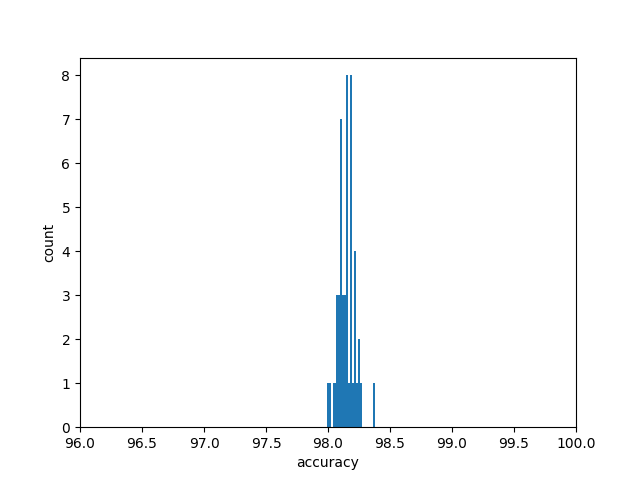
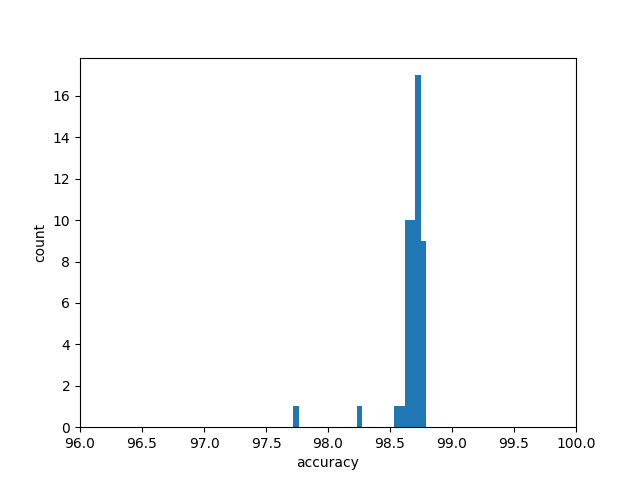
regularization added

diff --git a/LogReg.py b/LogReg.py
@@ -41,7 +41,7 @@ class LogisticRegression(torch.nn.Module):
         return outputs
 
 
-def sample_scores(model, criterion, data_input, data_target, test_loader, weights_mle, N_samples=10, arbitrary=False, k=2):
+def sample_scores(model, criterion, data_input, data_target, test_loader, weights_mle, N_samples=10, arbitrary=False, k=3):
     acc = []
     los = []
     for i in trange(N_samples):
@@ -50,10 +50,12 @@ def sample_scores(model, criterion, data_input, data_target, test_loader, weight
 
         loss = criterion(model(data_input), data_target)
         los.append(loss.item())
+        logits = []
         total = 0
         correct = 0
         for images, labels in test_loader:
             outputs = model(images)
+            logits.append(outputs)
             _, predicted = torch.max(outputs.data, 1)
             total += labels.size(0)
             # for gpu, bring the predicted and labels back to cpu fro python operations to work
@@ -61,7 +63,8 @@ def sample_scores(model, criterion, data_input, data_target, test_loader, weight
         accuracy = 100. * correct / float(total)
         acc.append(accuracy)
         set_model_parameters(model, weights_mle)
-    return acc, los
+        print(logits)
+    return acc, los, logits
 
 
 if __name__ == '__main__':
@@ -128,16 +131,31 @@ if __name__ == '__main__':
     data_input = test_batch[0]
     data_target = test_batch[1]
 
-    scores = sample_scores(model, criterion, data_input, data_target, test_loader, weights_mle, N_samples=100)
+    acc, loss, logits = sample_scores(model, criterion, data_input, data_target, test_loader, weights_mle, N_samples=100)
+    # print(f'Accuracy mean = {np.mean(scores[0])}')
+    # print(f'Accuracy std = {np.std(scores[0])}')
 
-    plt.hist(scores[0], bins=20)
+
+    plt.hist(acc, bins=60, density=True)
     plt.xlabel('accuracy')
     plt.ylabel('count')
-    plt.savefig('experiments/acc_logreg_bin.png')
+    # plt.xlim(left=90, right=95)
+    plt.savefig('experiments/acc_logreg_reg.png')
     plt.close()
+    #
+    # print(f'Loss mean = {np.mean(scores[1])}')
+    # print(f'Loss std = {np.std(scores[1])}')
 
-    plt.hist(scores[1], bins=25)
+
+    plt.hist(loss, bins=25)
     plt.xlabel('loss')
     plt.ylabel('count')
-    plt.savefig('experiments/loss_logreg_bin.png')
+    plt.savefig('experiments/loss_logreg_reg.png')
+    plt.close()
+
+    plt.hist(logits[:, 0], density=True)
+    plt.xlabel('logits')
+    plt.ylabel('count')
+    # plt.xlim(left=90, right=95)
+    plt.savefig('experiments/logits_logreg_reg.png')
     plt.close()

diff --git a/NN.py b/NN.py
@@ -1,0 +1,69 @@
+# /usr/local/bin/python3.7
+
+import matplotlib.pyplot as plt
+import numpy as np
+import torch
+import torch.nn as nn
+from torch.utils import data
+from tqdm import trange, tqdm
+from hvp_operator import to_vector
+from sampling import generate_weights, set_model_parameters
+from torchvision.datasets import MNIST
+import torchvision.transforms as transforms
+
+if __name__ == '__main__':
+
+    epochs = 5
+    batch_size = 64
+    lr = 5e-4
+
+    train_dataset = MNIST(root='MNIST', train=True, transform=transforms.ToTensor(), download=True)
+    train_loader = torch.utils.data.DataLoader(dataset=train_dataset, batch_size=batch_size, shuffle=True)
+
+    test_dataset = MNIST(root='MNIST', train=False, transform=transforms.ToTensor(), download=True)
+    test_loader = torch.utils.data.DataLoader(dataset=test_dataset, batch_size=batch_size, shuffle=False)
+
+    model = nn.Sequential(
+        nn.Linear(784, 256),
+        nn.ReLU(),
+        nn.Linear(256, 10)
+    )
+
+    criterion = nn.CrossEntropyLoss()
+    optimizer = torch.optim.Adam(model.parameters(), lr=lr)
+
+    train_losses = []
+    test_losses = []
+
+    for epoch in trange(epochs):
+        # Training
+        train_losses.append([])
+        model.train()
+        for iter_num, (images, labels) in enumerate(tqdm(train_loader)):
+            optimizer.zero_grad()
+            outputs = model(images)
+            loss = criterion(outputs, labels)
+            loss.backward()
+            optimizer.step()
+
+            train_losses[epoch].append(loss.item())
+
+        print(f'\nTrain loss at epoch #{epoch} = {np.mean(train_losses[epoch]):.4f}\n')
+
+        # Evaluation
+        test_losses.append([])
+        correct = 0
+        total = 0
+        model.eval()
+        for iter_num_test, (images_test, labels_test) in enumerate(tqdm(test_loader)):
+            with torch.no_grad():
+                outputs_test = model(images_test)
+                loss_test = criterion(outputs_test, labels_test)
+            test_losses[epoch].append(loss_test.item())
+            _, predicted = torch.max(outputs_test.data, 1)
+            total += len(labels_test)
+            correct += (predicted == labels_test).sum()
+        accuracy_test = 100 * correct / total
+        # print(f'outputs_test = {outputs_test}, labels_test = {labels_test}')
+        print(f"\nTest loss at epoch #{epoch} = {np.mean(test_losses[epoch]):.4f}, "
+              f"test accuracy: {accuracy_test:.2f}%\n")

diff --git a/ConvNN_MNIST_bin.py b/ConvNN_MNIST_bin.py
@@ -5,12 +5,11 @@ import numpy as np
 import torch
 import torch.nn as nn
 from torch.utils import data
-from tqdm import trange
+from tqdm import trange, tqdm
 from hvp_operator import to_vector
 from sampling import generate_weights, set_model_parameters
 from torchvision.datasets import MNIST
 import torchvision.transforms as transforms
-from tqdm import tqdm
 
 
 def sample_scores(model, criterion, data_input, data_target, test_loader, weights_mle, N_samples=10, arbitrary=False, k=2):
@@ -81,12 +80,6 @@ if __name__ == '__main__':
         nn.Linear(256, 2),
     )
 
-    # model = nn.Sequential(
-    #     nn.Linear(784, 256),
-    #     nn.ReLU(),
-    #     nn.Linear(256, 2)
-    # )
-
     criterion = nn.CrossEntropyLoss()
     optimizer = torch.optim.Adam(model.parameters(), lr=lr)
 
@@ -134,17 +127,23 @@ if __name__ == '__main__':
     data_input = test_batch[0]
     data_target = test_batch[1]
 
-    scores = sample_scores(model, criterion, data_input, data_target, test_loader, weights_mle, N_samples=50, k=15)
-
+    scores = sample_scores(model, criterion, data_input, data_target, test_loader, weights_mle, N_samples=100, k=8)
+    print(f'Accuracy mean = {np.mean(scores[0])}')
+    print(f'Accuracy std = {np.std(scores[0])}')
     plt.hist(scores[0], bins=25)
+    # plt.xlim(96, 100)
     plt.xlabel('accuracy')
     plt.ylabel('count')
-    plt.savefig('experiments/acc_cnn_bin.png')
+    plt.savefig('experiments/acc_cnn_bin_reg.png')
     plt.close()
 
+    print(f'Loss mean = {np.mean(scores[1])}')
+    print(f'Loss std = {np.std(scores[1])}')
+
     plt.hist(scores[1], bins=25)
+    # plt.xlim(0, 0.15)
     plt.xlabel('loss')
     plt.ylabel('count')
-    plt.savefig('experiments/loss_cnn_bin.png')
+    plt.savefig('experiments/loss_cnn_bin_reg.png')
     plt.close()
 

diff --git a/sampling.py b/sampling.py
@@ -23,9 +23,9 @@ def set_model_parameters(model, vec):
             param.copy_(new_param)
 
 
-def generate_weights(model, criterion, data_input, data_target, weights_mle, arbitrary=False, k=2):
+def generate_weights(model, criterion, data_input, data_target, weights_mle, arbitrary=False, k=1):
     n = weights_mle.shape[0]
-    m = n // k
+    m = np.int(n / k)
     print(f'n = {n}')
     print(f'm = {m}')
 
@@ -33,7 +33,7 @@ def generate_weights(model, criterion, data_input, data_target, weights_mle, arb
 
     op = ModelHessianOperator(model, criterion, data_input, data_target)
 
-    T, V = lanczos(operator=op, num_lanczos_vectors=m, size=n, use_gpu=False, start_vector=z)
+    T, V = lanczos(operator=op, num_lanczos_vectors=m, size=n, use_gpu=False, start_vector=z, regularization=True)
     print('Lanczos done')
     T = T.squeeze()
     V = V.squeeze()

diff --git a/lanczos_hvp.py b/lanczos_hvp.py
@@ -8,7 +8,8 @@ def lanczos(
             size,
             num_lanczos_vectors,
             use_gpu=False,
-            start_vector=None
+            start_vector=None,
+            regularization=False
     ):
     """
     Parameters
@@ -33,6 +34,13 @@ def lanczos(
             x = x.cuda()
         return operator.apply(x.float()).cpu().numpy()
 
+    def mv(v):
+        eps = 1
+        return eps * v
+
+    I = ScipyLinearOperator(shape, mv)
     scipy_op = ScipyLinearOperator(shape, _scipy_apply)
+    if regularization:
+        scipy_op += I
     T, V = _lanczos_m_upd(A=scipy_op, m=num_lanczos_vectors, matrix_shape=shape, SV=start_vector)
     return T, V
